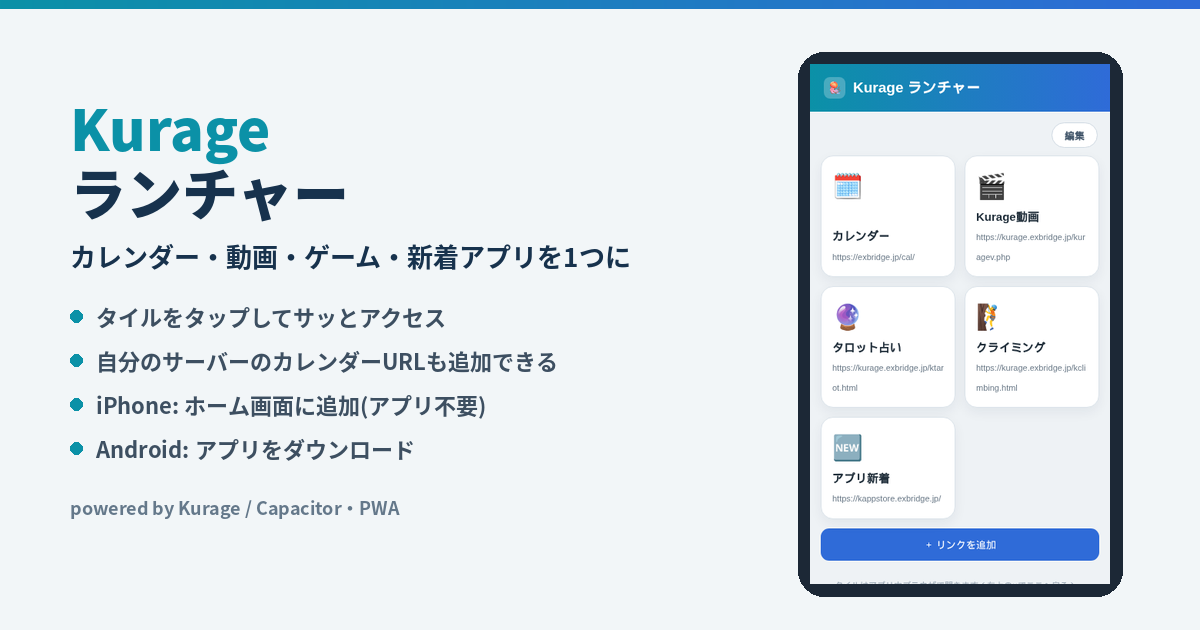
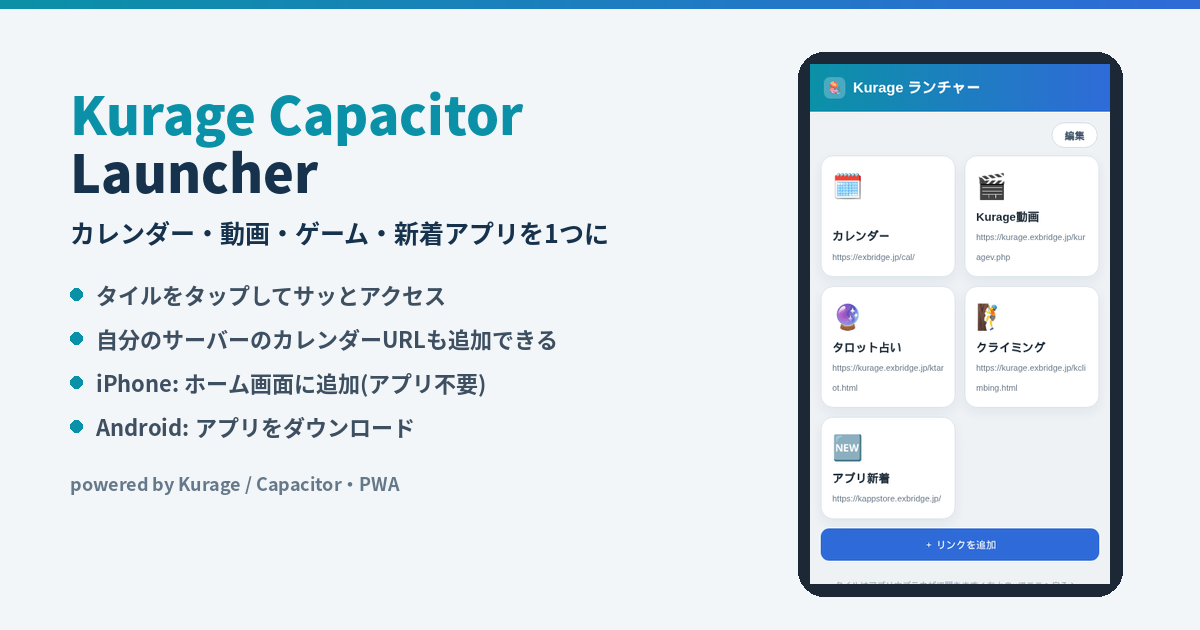
正式名 Kurage Capacitor Launcher に統一(LP/PWA/OGP/アプリラベル)
- 「Kurage Launcher / Kurageランチャー」への短縮を廃止し正式名に統一
- LP(EN/JA)・OGP画像・PWA(www/manifest)・capacitor appName・Android strings.xml(app_name)
- APK再ビルド・署名(v1/v2/v3)し kclauncher.exbridge.jp と exbridge.jp/cal/ の両方を差し替え

Changed region(s): [[0.0617, 0.1508, 0.5242, 0.7238], [0.0617, 0.754, 0.3392, 0.8143]]

diff --git a/landing/kclauncher.html b/landing/kclauncher.html
@@ -1,7 +1,7 @@
 <!doctype html>
 <html lang="ja"><head>
 <meta charset="utf-8"><meta name="viewport" content="width=device-width,initial-scale=1">
-<title>Kurage ランチャー | Kurageのサービスをホーム画面から1タップで（iPhone / Android）</title>
+<title>Kurage Capacitor Launcher | Kurageのサービスをホーム画面から1タップで（iPhone / Android）</title>
 <meta name="description" content="カレンダー・動画・ゲーム・新着アプリを1つに。iPhoneは「ホーム画面に追加」だけ（アプリ不要）、Androidはアプリをダウンロード。自分のサーバーのカレンダーURLも追加できる、URLで中身が変わる汎用ランチャー。">
 <meta name="robots" content="index, follow">
 <link rel="canonical" href="https://kclauncher.exbridge.jp/kclauncher.html">
@@ -10,20 +10,20 @@
 <link rel="alternate" hreflang="x-default" href="https://kclauncher.exbridge.jp/">
 <meta property="og:type" content="website">
 <meta property="og:site_name" content="Kurage Project">
-<meta property="og:title" content="Kurage ランチャー — Kurageのサービスをホーム画面から1タップで">
+<meta property="og:title" content="Kurage Capacitor Launcher — Kurageのサービスをホーム画面から1タップで">
 <meta property="og:description" content="カレンダー・動画・ゲーム・新着アプリを1つに。iPhoneはホーム画面に追加だけ、Androidはアプリをダウンロード。">
 <meta property="og:url" content="https://kclauncher.exbridge.jp/kclauncher.html">
 <meta property="og:image" content="https://kclauncher.exbridge.jp/assets/ogp.png">
 <meta property="og:image:width" content="1200"><meta property="og:image:height" content="630">
 <meta name="twitter:card" content="summary_large_image">
-<meta name="twitter:title" content="Kurage ランチャー">
+<meta name="twitter:title" content="Kurage Capacitor Launcher">
 <meta name="twitter:description" content="Kurageのサービスをホーム画面から1タップで。iPhone / Android 対応。">
 <meta name="twitter:image" content="https://kclauncher.exbridge.jp/assets/ogp.png">
 <script type="application/ld+json">
 {
   "@context": "https://schema.org",
   "@type": "SoftwareApplication",
-  "name": "Kurage ランチャー",
+  "name": "Kurage Capacitor Launcher",
   "url": "https://kclauncher.exbridge.jp/",
   "description": "Kurageのカレンダー・動画・ゲーム・新着アプリをホーム画面から開けるランチャー。iPhoneはPWA(ホーム画面に追加)、Androidはアプリ。自分のサーバーのカレンダーURLも追加できる。",
   "applicationCategory": "Utilities",
@@ -94,7 +94,7 @@ footer a{color:var(--indigo)}
 
   <section class="hero">
     <img class="mark" src="assets/kurage_avatar_face.webp" alt="Kurage">
-    <span class="tagline disp">KURAGE LAUNCHER</span>
+    <span class="tagline disp">KURAGE CAPACITOR LAUNCHER</span>
     <h1 class="disp">Kurageのサービスを<br><em>ホーム画面から1タップ</em>で</h1>
     <p class="lead">カレンダー・動画・ゲーム・新着アプリを、ひとつのランチャーに。iPhoneは「ホーム画面に追加」するだけ、Androidはアプリをダウンロード。自分のサーバーのカレンダーURLも追加できます。</p>
     <div class="ctas">
@@ -137,7 +137,7 @@ footer a{color:var(--indigo)}
     <div class="steps">
       <div class="step"><b>APKをダウンロード</b><p>下のボタンから <b>kclauncher.apk</b> を端末にダウンロードします。</p></div>
       <div class="step"><b>インストールを許可</b><p>初回は<span class="kbd">提供元不明のアプリ</span>のインストールを求められたら許可してください。</p></div>
-      <div class="step"><b>起動する</b><p>「Kurageランチャー」を開いてタイルをタップ。端末の戻るでランチャーに戻れます。</p></div>
+      <div class="step"><b>起動する</b><p>「Kurage Capacitor Launcher」を開いてタイルをタップ。端末の戻るでランチャーに戻れます。</p></div>
     </div>
     <div class="panel and">
       <h4>🤖 Androidアプリをダウンロード</h4>
@@ -153,7 +153,7 @@ footer a{color:var(--indigo)}
   </div>
 
   <footer>
-    <div>Kurage ランチャー ・ <a href="https://kurage.exbridge.jp/">Kurage Project</a> ・ <a href="https://kappstore.exbridge.jp/">Kurage App Store</a></div>
+    <div>Kurage Capacitor Launcher ・ <a href="https://kurage.exbridge.jp/">Kurage Project</a> ・ <a href="https://kappstore.exbridge.jp/">Kurage App Store</a></div>
     <div style="margin-top:6px">iPhone / Android / Web 対応 ・ 無料</div>
   </footer>
 </main>

diff --git a/landing/index.html b/landing/index.html
@@ -1,7 +1,7 @@
 <!doctype html>
 <html lang="en"><head>
 <meta charset="utf-8"><meta name="viewport" content="width=device-width,initial-scale=1">
-<title>Kurage Launcher | Open Kurage services from your home screen in one tap (iPhone / Android)</title>
+<title>Kurage Capacitor Launcher | Open Kurage services from your home screen in one tap (iPhone / Android)</title>
 <meta name="description" content="Calendar, videos, games and new apps in one launcher. On iPhone just Add to Home Screen (no app needed); on Android download the app. Add your own server's calendar URL too — a generic launcher whose contents change by URL.">
 <meta name="robots" content="index, follow">
 <link rel="canonical" href="https://kclauncher.exbridge.jp/">
@@ -10,20 +10,20 @@
 <link rel="alternate" hreflang="x-default" href="https://kclauncher.exbridge.jp/">
 <meta property="og:type" content="website">
 <meta property="og:site_name" content="Kurage Project">
-<meta property="og:title" content="Kurage Launcher — Open Kurage services from your home screen in one tap">
+<meta property="og:title" content="Kurage Capacitor Launcher — Open Kurage services from your home screen in one tap">
 <meta property="og:description" content="Calendar, videos, games and new apps in one launcher. iPhone: Add to Home Screen. Android: download the app.">
 <meta property="og:url" content="https://kclauncher.exbridge.jp/">
 <meta property="og:image" content="https://kclauncher.exbridge.jp/assets/ogp.png">
 <meta property="og:image:width" content="1200"><meta property="og:image:height" content="630">
 <meta name="twitter:card" content="summary_large_image">
-<meta name="twitter:title" content="Kurage Launcher">
+<meta name="twitter:title" content="Kurage Capacitor Launcher">
 <meta name="twitter:description" content="Open Kurage services from your home screen in one tap. iPhone / Android.">
 <meta name="twitter:image" content="https://kclauncher.exbridge.jp/assets/ogp.png">
 <script type="application/ld+json">
 {
   "@context": "https://schema.org",
   "@type": "SoftwareApplication",
-  "name": "Kurage Launcher",
+  "name": "Kurage Capacitor Launcher",
   "url": "https://kclauncher.exbridge.jp/",
   "description": "A launcher that opens Kurage's calendar, videos, games and new apps from your home screen. iPhone as a PWA (Add to Home Screen), Android as an app. You can add your own server's calendar URL too.",
   "applicationCategory": "Utilities",
@@ -94,7 +94,7 @@ footer a{color:var(--indigo)}
 
   <section class="hero">
     <img class="mark" src="assets/kurage_avatar_face.webp" alt="Kurage">
-    <span class="tagline disp">KURAGE LAUNCHER</span>
+    <span class="tagline disp">KURAGE CAPACITOR LAUNCHER</span>
     <h1 class="disp">Open Kurage services<br><em>from your home screen</em></h1>
     <p class="lead">Calendar, videos, games and new apps — all in one launcher. On iPhone, just Add to Home Screen (no app to install). On Android, download the app. You can add your own server's calendar URL, too.</p>
     <div class="ctas">
@@ -137,7 +137,7 @@ footer a{color:var(--indigo)}
     <div class="steps">
       <div class="step"><b>Download the APK</b><p>Download <b>kclauncher.apk</b> to your device from the button below.</p></div>
       <div class="step"><b>Allow install</b><p>The first time, allow installing from <span class="kbd">unknown sources</span> if prompted.</p></div>
-      <div class="step"><b>Launch it</b><p>Open "Kurage Launcher" and tap a tile. Use the device Back button to return to the launcher.</p></div>
+      <div class="step"><b>Launch it</b><p>Open "Kurage Capacitor Launcher" and tap a tile. Use the device Back button to return to the launcher.</p></div>
     </div>
     <div class="panel and">
       <h4>🤖 Download the Android app</h4>
@@ -153,7 +153,7 @@ footer a{color:var(--indigo)}
   </div>
 
   <footer>
-    <div>Kurage Launcher ・ <a href="https://kurage.exbridge.jp/">Kurage Project</a> ・ <a href="https://kappstore.exbridge.jp/">Kurage App Store</a></div>
+    <div>Kurage Capacitor Launcher ・ <a href="https://kurage.exbridge.jp/">Kurage Project</a> ・ <a href="https://kappstore.exbridge.jp/">Kurage App Store</a></div>
     <div style="margin-top:6px">iPhone / Android / Web ・ Free</div>
   </footer>
 </main>

diff --git a/www/index.html b/www/index.html
@@ -3,7 +3,7 @@
 <head>
 <meta charset="utf-8">
 <meta name="viewport" content="width=device-width,initial-scale=1,viewport-fit=cover">
-<title>Kurage ランチャー</title>
+<title>Kurage Capacitor Launcher</title>
 <link rel="manifest" href="manifest.webmanifest">
 <meta name="theme-color" content="#2f6bd8">
 <meta name="mobile-web-app-capable" content="yes">
@@ -52,7 +52,7 @@
 </style>
 </head>
 <body>
-<header><span class="logo">🪼</span>Kurage ランチャー</header>
+<header><span class="logo">🪼</span>Kurage Capacitor Launcher</header>
 <main>
   <div class="toolbar"><button id="editBtn">編集</button></div>
   <div class="grid" id="grid"></div>
